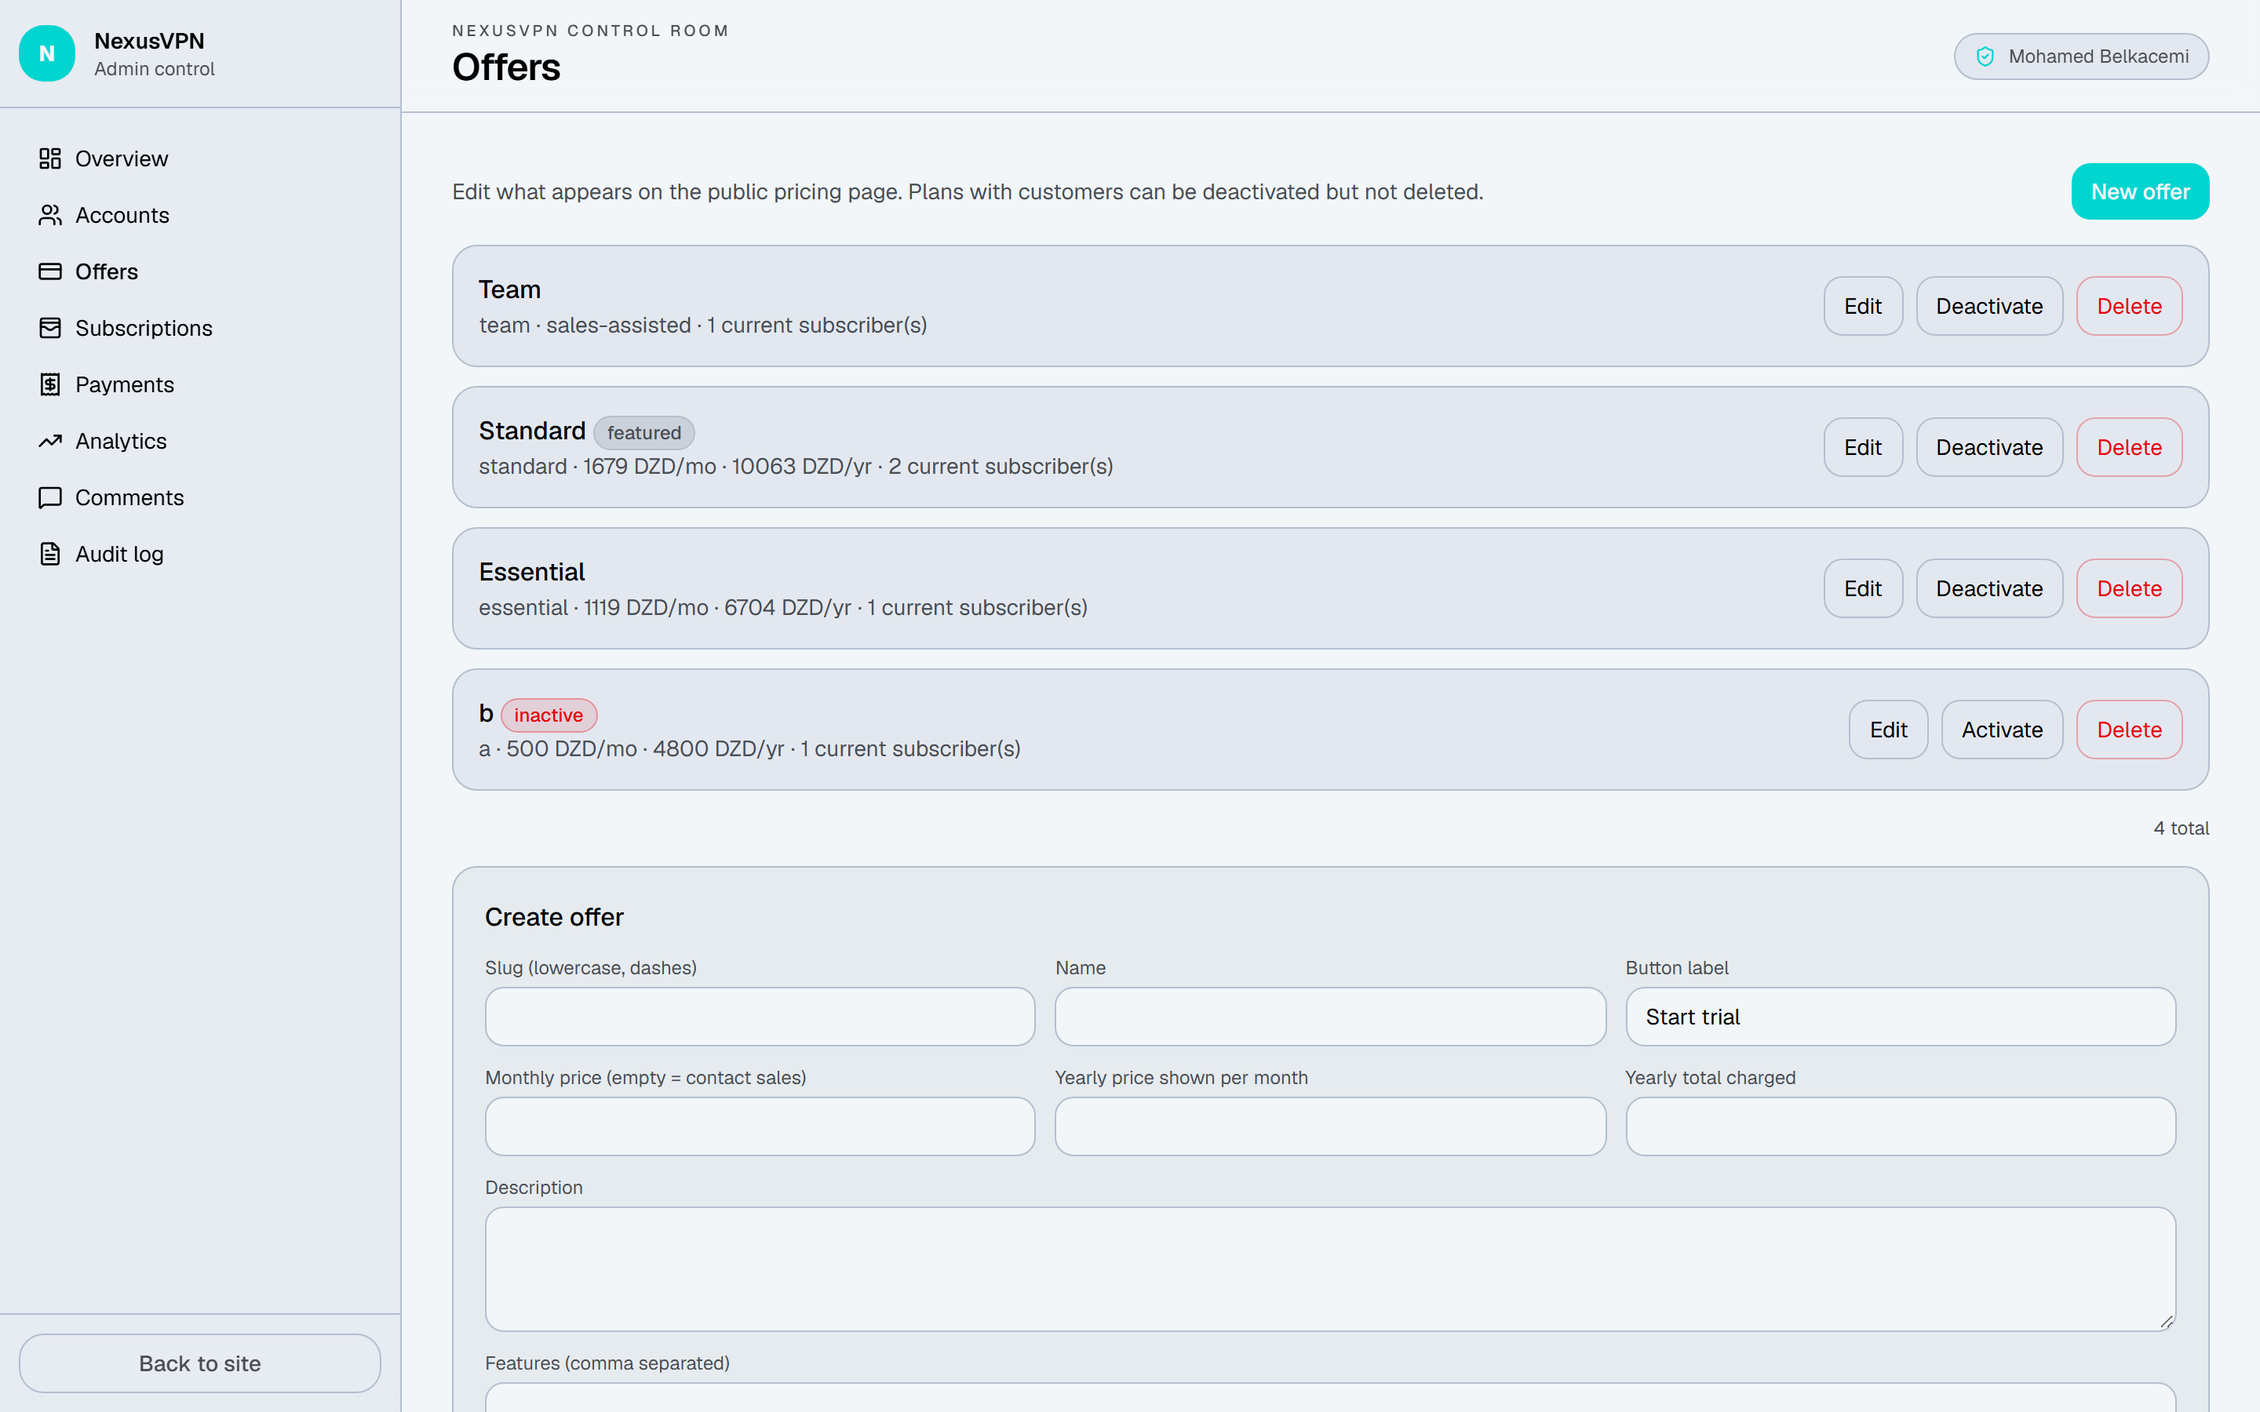
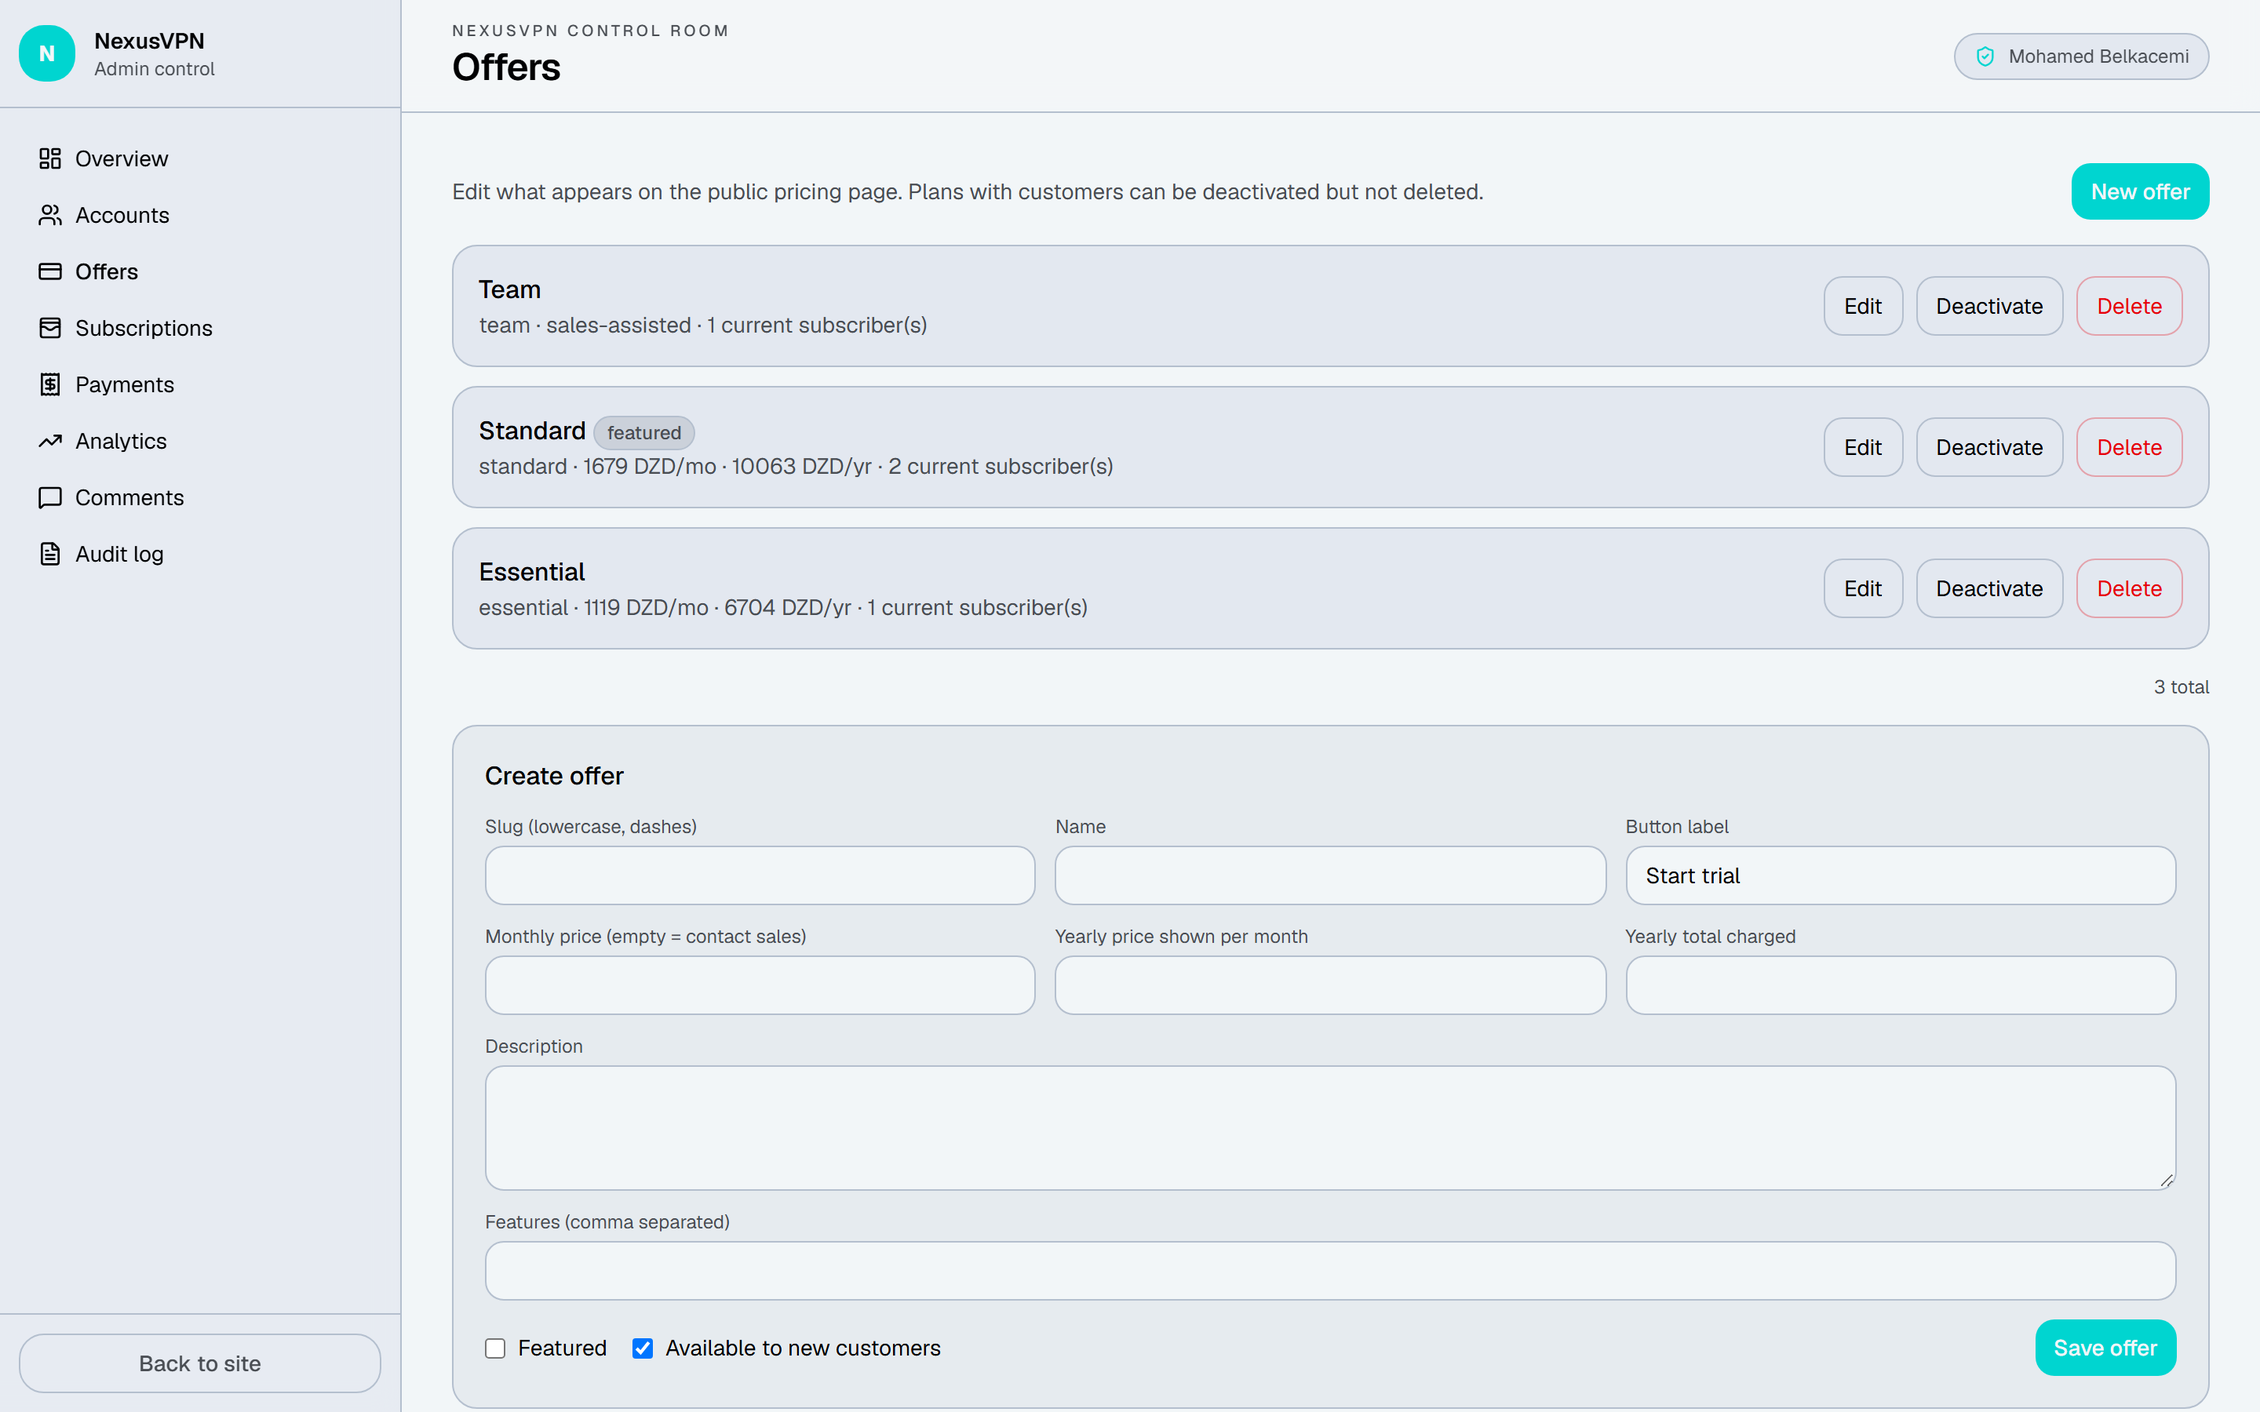
chore(data): remove test/junk data, re-capture 4 clean screenshots
Approved cleanup after a full read-only audit of the dev database. In one
transaction, respecting foreign keys (child->parent), removed only non-demo,
non-admin test/junk data:
- the approved testimonial with inappropriate wording (admin account);
- junk offer/plan "b" (slug a) + its trial subscription, VPN credential and
  pending 4800 DZD payment;
- junk plan "dgdtgy" (was already soft-deleted);
- the whole nexusvpn.pfe@gmail.com test account + its payment, subscription
  and VPN credential;
- a junk contact request.

Preserved: the real admin account, all 11 demo accounts, and the audit log
(audit_logs.actor_id is SET NULL by FK; the historical plan events stay). DB
backed up first (database.backup-precleanup-*.sqlite, gitignored). Result: 12
accounts (admin + 11 demo), plans essential/standard/team, 6 demo payments,
3 clean testimonials, 2 real contact requests.

Re-captured figures 04/19/20/21 clean and verified. Added mobile.7z to
.gitignore. Updated screenshots README, gap-report, plan and changelog. No
application code changed.

diff --git a/docs/memoire/gap-report.md b/docs/memoire/gap-report.md
@@ -49,7 +49,7 @@
 | IV.1 technologies (+ logos, versions) | `09-technologies`, `ground-truth` (exact versions) | EN section + **logos**; MFA→future (G-06); +Sanctum (A2); ⏸ mobile | 🔨 + 🌐 **logos** (official brand assets) |
 | IV.2 architecture (pattern/layers/APIs) | `13`,`15` TD-01/02 | EN section; Chargily + **Brevo** + WireGuard | 🔨 |
 | IV.3 modules (8) | `05-backend`,`07-api`,`10-features` | one subsection per module (adapt §5: G-05 helpdesk→contact+moderation, G-07 VPN provisioning) | 🔨 from **code** |
-| IV.4 interface walkthrough | **29 print-usable screenshots** (`screenshots/memoire/`, desktop 1440×900 light @2×, one per section/component, EN captions + mémoire section) + 68 legacy kept | ⚠ re-capture **4** after 👤 cleans data (inappropriate testimonial in `04`; junk offer/plans/payments in `19`/`20`/`21`); ⏸ mobile placeholder | ✅ **done** (states captured: validation error, success, checkout dialog, team mgmt, account settings, empty, failed payment) — 🔨 re-capture 4 after cleanup |
+| IV.4 interface walkthrough | **29 print-usable screenshots** (`screenshots/memoire/`, desktop 1440×900 light @2×, one per section/component, EN captions + mémoire section) + 68 legacy kept | — (data cleaned + 4 re-captured 2026-10-10); ⏸ mobile placeholder | ✅ **done** (all states captured: validation error, success, checkout dialog, team mgmt, account settings, empty, failed payment; junk/test data removed) |
 | IV.5 critical components (security/payment/notifications/reporting) | `code/backend.md`, `08`, `ground-truth` | EN section + **code excerpts** (CSRF/headers, HMAC webhook, scheduler, stats) | 🔨 from **source code** |
 | IV.6 testing (unit/integration, security, performance) | `12-testing` (**130 tests**) | the tests table (EN); **G-10** header/TLS scans + manual-check evidence; **G-09** Lighthouse + load test | 🔨 tests table now; ⏳ **live scans after deploy** (free online tools) |
 | IV.7 deployment (prod env, CI/CD, monitoring) | `13-deployment`, `render.yaml`, Dockerfile | EN section + **deployment diagram** + screenshots; **G-11** move/fix CI to repo-root `.github/`; **G-12** logs + `/up` + audit (+ uptime monitor) | 🔨 CI fix (config only) + ⏳ deployment screenshots after deploy |
@@ -100,7 +100,7 @@ P-01 gap handling (§5), P-03 writing workflow, P-04 diagram tools, Q-10 problem
 - **Ch III design material** (EN, `ch3-design-material.md`): role/permission matrix, 10 use-case tables (adapted §5), relational model, data dictionary, cardinalities, business rules.
 - **Ch II sources** (`ch2-sources.md`): official theory references + verified Algerian laws 18-05/18-07.
 - **English diagrams COMPLETE** (`figures/`): architecture, class, ERD, **5 sequence diagrams + deployment translated to EN**, and the **use-case redrawn in real UML (PlantUML)** — global / client / admin (support merged, G-05) with actors, system boundary and «include»/«extend», mobile marked placeholder. **All 11 rendered to PNG and checked readable one by one.** Logo source list ready.
-- **Print-usable screenshots COMPLETE** (`screenshots/memoire/`, 29): desktop 1440×900, light, `deviceScaleFactor 2`, one per section/component; **missing states captured** (validation error, success message, Chargily checkout dialog, team management, account settings, empty/prospect, failed payment); EN captions + mémoire section in `screenshots/README.md`; legacy 68 kept. ⚠ 4 need a quick data cleanup before printing (see README).
+- **Print-usable screenshots COMPLETE** (`screenshots/memoire/`, 29): desktop 1440×900, light, `deviceScaleFactor 2`, one per section/component; **missing states captured** (validation error, success message, Chargily checkout dialog, team management, account settings, empty/prospect, failed payment); EN captions + mémoire section in `screenshots/README.md`; legacy 68 kept. **Test/junk data removed** (DB backed up first; demo + admin + audit log untouched) and the 4 affected figures re-captured clean.
 - **E-commerce definition source RESOLVED** (`ch2-sources.md`): Law 18-05 art. 2 (primary, Algerian) + OECD 2009/2025 (international) — wordings verified by web search 2026-10-10; no "to confirm" left.
 - **Demo-data bug FIXED**: `DemoDataSeeder` now attaches the team owner to the membership pivot (mirrors the real `AdminBillingController` flow), so a team owner sees their team on the dashboard; regression test added — **131/131 tests**.
 - **E-mail decision** (D-17 Brevo) recorded.
@@ -117,4 +117,4 @@ Live test evidence (Lighthouse, header/TLS scans), deployment screenshots, Brevo
 All of **Chapter I** (EADN visit 11–12/10, interview sheet ready); **cover facts** (speciality, promotion, year, supervisor name+grade, name spelling); internship dates + EADN supervisor; **real project dates** (Gantt); dedications/acknowledgements; **Arabic abstract** check; validate Ch II competitor facts; choose the problem-statement wording; institute's printing rules.
 
 ### Bottom line
-Everything that could be verified and built **without the EADN visit, deployment, or new app code is done**. The Ch II–IV supporting material is accurate (**131 tests**, Sanctum, Brevo), the Ch III design artifacts exist in English, **all diagrams are translated/redrawn to real UML and rendered to readable PNGs**, and **29 print-usable screenshots** (with the missing states) are captured and captioned. The remaining work is: **write the chapters (next)**; the EADN-dependent Chapter I; deployment + live evidence; a quick **data cleanup + re-capture of 4 screenshots** (👤, see `screenshots/README.md`); the Gantt (real dates, 👤); and the CI move on first push.
+Everything that could be verified and built **without the EADN visit, deployment, or new app code is done**. The Ch II–IV supporting material is accurate (**131 tests**, Sanctum, Brevo), the Ch III design artifacts exist in English, **all diagrams are translated/redrawn to real UML and rendered to readable PNGs**, and **29 print-usable screenshots** (with the missing states) are captured and captioned. The remaining work is: **write the chapters (next)**; the EADN-dependent Chapter I; deployment + live evidence; the Gantt (real dates, 👤); and the CI move on first push.

diff --git a/docs/pfe/17-changelog.md b/docs/pfe/17-changelog.md
@@ -35,3 +35,4 @@
 | 2026-10-07 | Backend / Sécurité / Tests | **Authentification par jeton pour l'application mobile** (Laravel Sanctum v4) : `HasApiTokens` sur `User`, groupe de routes `/api/mobile/*` **hors du groupe `web`** (jeton `Bearer`, sans session ni CSRF), `MobileAuthController` (connexion/inscription/déconnexion émettant et révoquant un jeton), `updatePassword`/`deleteAccount` rendues compatibles jeton (révocation des jetons, gardes `hasSession()`), durée de vie des jetons 30 j (`SANCTUM_TOKEN_EXPIRATION`, `config/sanctum.php`). **Le login web (session + CSRF) est inchangé** ; l'admin n'est pas exposé au mobile. 9 tests ajoutés (`MobileAuthTest`) | Permettre à l'application mobile Flutter de s'authentifier proprement (D-15) | 130/130 tests | commit `feat(api): Sanctum token auth for the mobile app` |
 | 2026-10-10 | Documentation | Finalisation de l'étape 5 (avant les chapitres) : relecture page par page des deux PDF (règles + modèle 19/20) et mise à jour de `content-spec.md`/`decisions.md §2` ; **traduction en anglais** des 5 diagrammes de séquence + déploiement (`docs/memoire/figures/`) ; **cas d'usage redessinés en UML réel** (PlantUML : global, client, admin avec support fusionné G-05 — acteurs, frontière système, «include»/«extend», mobile en placeholder) ; rendu **PNG** de tous les diagrammes anglais (vérifiés lisibles) ; **29 captures exploitables en impression** (`memoire-assets/screenshots/memoire/`, desktop 1440×900, thème clair, `deviceScaleFactor 2`, une par section/composant ; états manquants ajoutés : erreur de validation, message de succès, état vide, gestion d'équipe, paiement échoué) avec légendes EN + section du mémoire dans `screenshots/README.md` ; source e-commerce vérifiée (définition OMC). Anciennes 68 captures conservées | Préparer figures et captures prêtes pour l'impression A4 | Figures EN rendues ; 29 captures vérifiées une à une ; serveurs arrêtés | commit `docs(memoire): print-usable screenshots + e-commerce source (finish Step 5)` |
 | 2026-10-10 | Backend / Tests / Documentation | **Correctif de données de démo** : `DemoDataSeeder` n'attachait pas le **propriétaire d'équipe** au pivot d'adhésion, contrairement au flux réel (`AdminBillingController::createTeamSubscription`) ; `/api/team` renvoyait donc `null` pour le propriétaire et son tableau de bord masquait l'équipe qu'il possède. Ajout de `members()->syncWithoutDetaching([owner => ['role' => 'owner']])` (idempotent) + test de régression `DemoDataSeederTest`. Base de dev corrigée **chirurgicalement** (une ligne de pivot) pour ne pas décaler les dates relatives des autres captures (sauvegarde `.sqlite` prise avant) | Rendre les données de démo conformes au flux réel pour capturer « gestion d'équipe » | **131/131 tests** (base `:memory:`) | commit `fix(seeder): attach team owner to membership pivot (+ test)` |
+| 2026-10-10 | Données (base de dev) / Documentation | **Nettoyage des données de test/parasites** (approuvé par l'étudiant) après audit complet de la base : suppression, dans une transaction et en respectant les clés étrangères (ordre enfant→parent), d'un témoignage approuvé au contenu inapproprié, de l'offre/plan parasite « b » (slug `a`) + son essai/abonnement/VPN/paiement en attente, du plan parasite « dgdtgy » (déjà soft-deleted), du **compte de test `nexusvpn.pfe@gmail.com`** entier (+ paiement/abonnement/VPN) et d'une demande de contact parasite. **Comptes démo, compte admin réel et journal d'audit préservés.** Sauvegarde `.sqlite` prise avant. 4 captures (04, 19, 20, 21) re-générées propres et vérifiées. `mobile.7z` ajouté à `.gitignore`. **Aucun code applicatif modifié.** | Des données de test/inappropriées étaient visibles sur le site/l'admin et donc dans les captures du mémoire | Base propre (12 comptes : admin + 11 démo) ; 4 captures propres | commit `chore(data): remove test/junk data, re-capture 4 clean screenshots` |

diff --git a/docs/pfe/memoire-assets/screenshots/README.md b/docs/pfe/memoire-assets/screenshots/README.md
@@ -68,12 +68,8 @@ Mémoire chapter map: these illustrate **Chapter IV — Implementation and Deplo
 
 > ⏸ The native **Flutter mobile app is POSTPONED** (decision D-16). §IV.4.4 stays a marked placeholder. The two images above are the **responsive website** on a phone-sized viewport, not the mobile app.
 
-### ⚠ Data cleanup needed before printing (4 figures)
-These four show real test/junk data on **non-demo** accounts; the capture format is fine, but clean the data and re-capture before use:
-- `04-testimonials.png` — an approved testimonial on the real admin account contains inappropriate wording. Remove it (Admin → Comments → filter *Approved* → Reject/Delete), then re-capture.
-- `19-admin-offers.png`, `20-admin-subscriptions.png`, `21-admin-payments.png` — a junk offer **"b"** (slug "a"), junk plans **"b" / "dgdtgy"**, and a junk pending payment appear. Delete these test offers/plans/payments (and the `nexusvpn.pfe@gmail.com` test payment), then re-capture.
-
-Re-capturing just these four keeps every date/reference consistent with the others. (Re-running `DemoDataSeeder` would shift all relative demo dates and force re-capturing the whole set — avoid it unless you redo everything.)
+### ✅ Data cleanup done (2026-10-10)
+All four figures were **re-captured after cleaning the test/junk data** (DB backed up first; only non-demo, non-admin test data removed, foreign keys respected): the inappropriate approved testimonial, a junk offer "b" (slug "a") + its trial/subscription/VPN/pending payment, a soft-deleted junk plan "dgdtgy", the whole `nexusvpn.pfe@gmail.com` test account + its payment/subscription/VPN, and a junk contact request. The demo accounts, the real admin account, and the audit log were left intact. These four now match the rest of the set — nothing further to do.
 
 ### How to regenerate the `memoire/` set
 Backend on :8000 and the **production** frontend on :3000 (`npx pnpm@10 start`), then run the capture script from the repo root:

diff --git a/docs/memoire/plan.md b/docs/memoire/plan.md
@@ -99,7 +99,7 @@ Output folders (created when needed):
 | ☐ | 3.7 | Business rules list + relationships and cardinalities list | Claude | 3.4 | lists |
 | ☐ | 3.8 | Gantt chart | Claude | 0.12 | `figures/` |
 | ☑ | 3.9 | Missing web screenshots **captured**: checkout dialog, team management, account settings, contact form, validation error, **success message, empty state, failed payment** (`screenshots/memoire/`) | Claude (capture script) | — | screenshots |
-| ◐ | 3.10 | **29 print-usable screenshots** selected + **EN captions + mémoire section** in `screenshots/README.md` (desktop 1440×900 light @2×, a few mobile-responsive) — ⚠ student approves selection + Claude **re-captures 4** after data cleanup (testimonial `04`, junk `19`/`20`/`21`) | Claude proposes, Student approves | 3.9 | selection list |
+| ◐ | 3.10 | **29 print-usable screenshots** selected + **EN captions + mémoire section** in `screenshots/README.md` (desktop 1440×900 light @2×, a few mobile-responsive); **test/junk data removed + 4 figures re-captured clean (2026-10-10)** — only student's final approval of the selection remains | Claude proposes, Student approves | 3.9 | selection list |
 | ☐ | 3.11 | Tool logos (frameworks, DBMS, Docker, Git/GitHub, IDE, Vercel, Render, Chargily, WireGuard, modelling tools) | Claude (Student if download blocked) | — | `figures/logos/` |
 | ☐ | 3.12 | Short, commented code excerpts in English | Claude | — | snippets |
 | ◐ | 3.13 | Deployment diagram (English) **done + rendered** (`deployment-en.mmd` + PNG, planned hosts Render/Vercel); update with **real URLs** after deploy | Claude | 1.13 | `figures/` |
